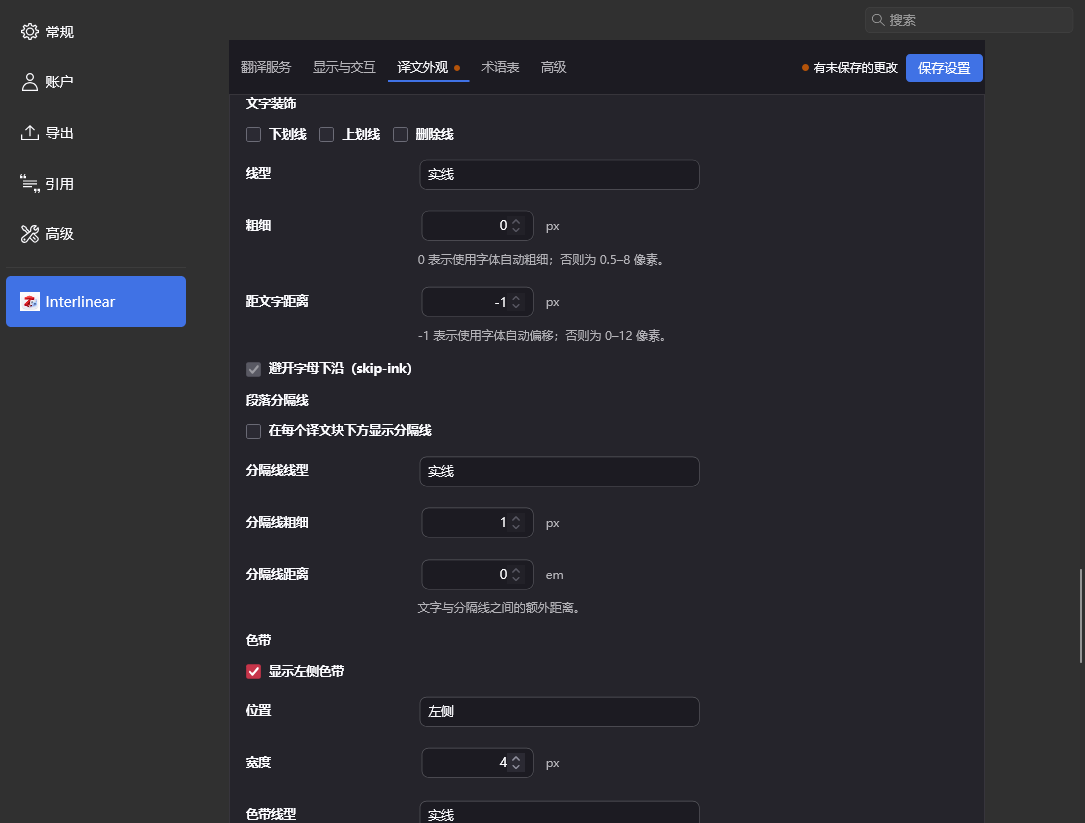
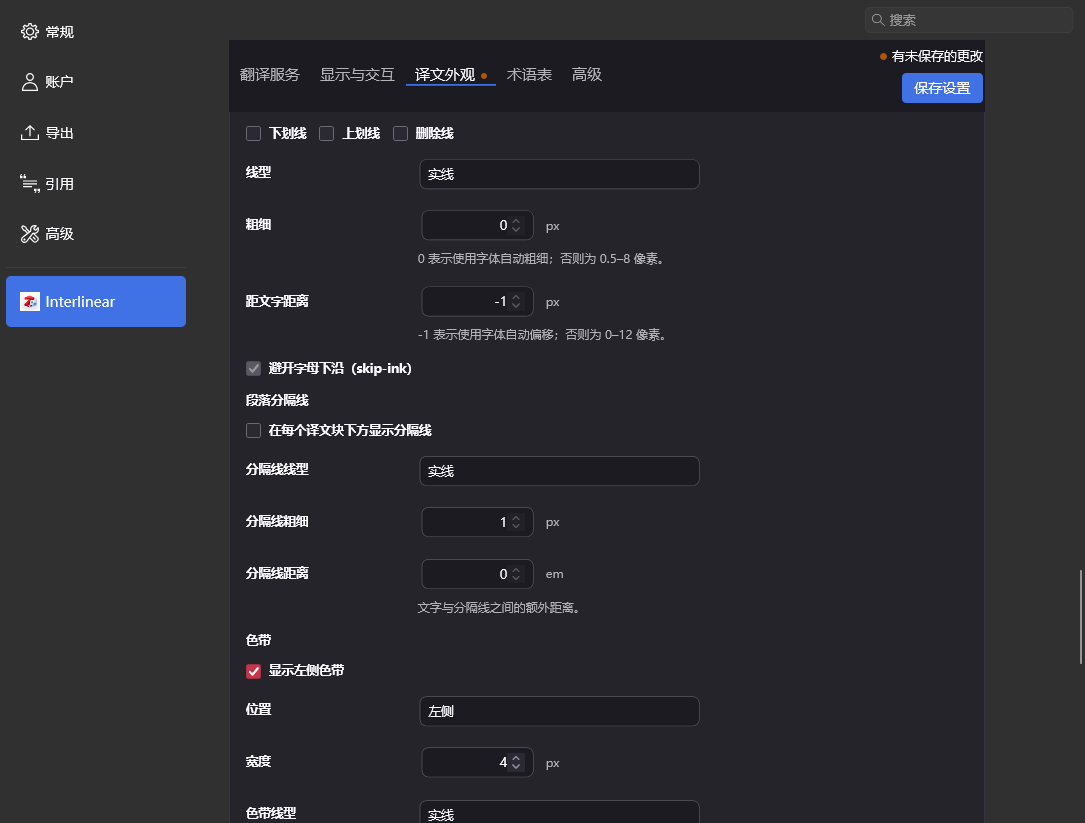
ui: enlarge settings tabs and keep the scrollbar clear of the labels
Keep the five tabs on one row, allow horizontal scrolling when the English
labels overflow, and reserve 10px below the text so the thin native
scrollbar never covers it. Stack the save status and button on the right.

diff --git a/addon/content/preferences.css b/addon/content/preferences.css
@@ -143,20 +143,24 @@
   display: flex;
   align-items: center;
   flex: 1 1 auto;
+  flex-wrap: nowrap;
   min-width: 0;
   gap: 2px;
+  padding-bottom: 10px;
   overflow-x: auto;
   overflow-y: hidden;
   white-space: nowrap;
   scrollbar-width: thin;
+  scrollbar-color: var(--interlinear-border-strong) transparent;
 }
 
 #interlinear-settings-root .interlinear-toolbar-actions {
   display: flex;
-  align-items: center;
-  justify-content: flex-end;
+  flex-direction: column;
+  align-items: flex-end;
+  justify-content: center;
   flex: 0 0 auto;
-  gap: 8px;
+  gap: 4px;
   min-width: 0;
 }
 
@@ -165,14 +169,14 @@
   -moz-appearance: none;
   flex: 0 0 auto;
   margin: 0;
-  padding: 5px 10px 6px;
+  padding: 6px 9px 7px;
   border: 0;
   border-bottom: 2px solid transparent;
   border-radius: 0;
   background: transparent;
   color: var(--interlinear-muted);
   font: inherit;
-  font-size: 12.5px;
+  font-size: 15px;
   font-weight: 500;
   line-height: 1.4;
   white-space: nowrap;
@@ -378,6 +382,11 @@
   max-width: 280px;
 }
 
+#interlinear-settings-root .interlinear-select option {
+  background-color: Menu;
+  color: MenuText;
+}
+
 #interlinear-settings-root .interlinear-select-wide {
   max-width: 440px;
 }
@@ -530,6 +539,12 @@
   font-size: 12px;
 }
 
+#interlinear-settings-root .interlinear-save-button {
+  height: 30px;
+  min-height: 30px;
+  font-size: 14px;
+}
+
 #interlinear-settings-root .interlinear-actions {
   display: flex;
   align-items: center;
@@ -550,6 +565,7 @@
 
 #interlinear-settings-root .interlinear-settings-status {
   max-width: 300px;
+  font-size: 13px;
   text-align: right;
   white-space: normal;
 }
@@ -621,7 +637,7 @@
 #interlinear-settings-root .interlinear-save-hint {
   max-width: 260px;
   color: CanvasText;
-  font-size: 11.5px;
+  font-size: 12.5px;
   line-height: 1.35;
   text-align: right;
   white-space: normal;
